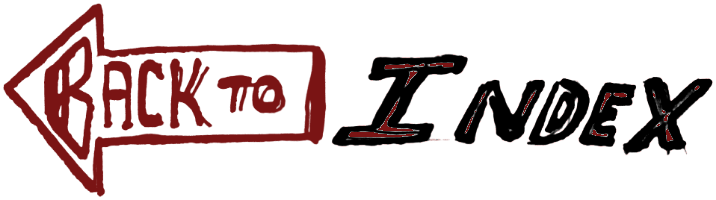
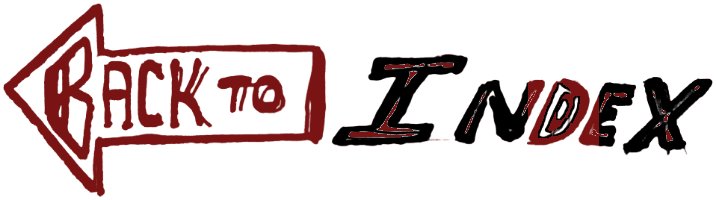
Nav: color the D red, outline its hole in black instead
The D now keeps the dark red ink color (like the rest of the
original word) while its counter stays empty, delimited by a thin
black line traced right at the hole's edge. I/N/E/X are unchanged
(black stroke, small red accent pockets).

Changed region(s): [[0.7374, 0.39, 0.8603, 0.75]]

diff --git a/codex.html b/codex.html
@@ -30,7 +30,7 @@
   <img src="codex-figure.jpg" alt="Drawing: a framed figure with arms crossed and a head made of ornate clustered shapes" class="codex-figure">
 </div>
 <nav class="menu" aria-label="Main menu">
-  <a href="index.html"><img src="index-word.png?v=7" alt="Index"></a>
+  <a href="index.html"><img src="index-word.png?v=8" alt="Index"></a>
   <a href="audio.html"><img src="titre-audio.png?v=2" alt="Audio"></a>
   <a href="video.html"><img src="titre-video.png?v=2" alt="Video"></a>
   <a href="argumentum.html"><img src="titre-argumentum.png?v=2" alt="Argumentum"></a>

diff --git a/agenda.html b/agenda.html
@@ -23,7 +23,7 @@
     <img src="agenda-vanguard.jpg" alt="Notebook page: Village Vanguard (2028)" class="agenda-art">  </div>
 </div>
 <nav class="menu" aria-label="Main menu">
-  <a href="index.html"><img src="index-word.png?v=7" alt="Index"></a>
+  <a href="index.html"><img src="index-word.png?v=8" alt="Index"></a>
   <a href="audio.html"><img src="titre-audio.png?v=2" alt="Audio"></a>
   <a href="video.html"><img src="titre-video.png?v=2" alt="Video"></a>
   <a href="codex.html"><img src="titre-codex.png?v=2" alt="Codex"></a>

diff --git a/audio.html b/audio.html
@@ -27,7 +27,7 @@
   </div>
 </div>
 <nav class="menu" aria-label="Main menu">
-  <a href="index.html"><img src="index-word.png?v=7" alt="Index"></a>
+  <a href="index.html"><img src="index-word.png?v=8" alt="Index"></a>
   <a href="video.html"><img src="titre-video.png?v=2" alt="Video"></a>
   <a href="codex.html"><img src="titre-codex.png?v=2" alt="Codex"></a>
   <a href="argumentum.html"><img src="titre-argumentum.png?v=2" alt="Argumentum"></a>

diff --git a/video.html b/video.html
@@ -31,7 +31,7 @@
   </div>
 </div>
 <nav class="menu" aria-label="Main menu">
-  <a href="index.html"><img src="index-word.png?v=7" alt="Index"></a>
+  <a href="index.html"><img src="index-word.png?v=8" alt="Index"></a>
   <a href="audio.html"><img src="titre-audio.png?v=2" alt="Audio"></a>
   <a href="codex.html"><img src="titre-codex.png?v=2" alt="Codex"></a>
   <a href="argumentum.html"><img src="titre-argumentum.png?v=2" alt="Argumentum"></a>

diff --git a/comodoro.html b/comodoro.html
@@ -27,7 +27,7 @@
   </div>
 </div>
 <nav class="menu" aria-label="Main menu">
-  <a href="index.html"><img src="index-word.png?v=7" alt="Index"></a>
+  <a href="index.html"><img src="index-word.png?v=8" alt="Index"></a>
   <a href="audio.html"><img src="titre-audio.png?v=2" alt="Audio"></a>
   <a href="video.html"><img src="titre-video.png?v=2" alt="Video"></a>
   <a href="codex.html"><img src="titre-codex.png?v=2" alt="Codex"></a>

diff --git a/contact.html b/contact.html
@@ -27,7 +27,7 @@
   </div>
 </div>
 <nav class="menu" aria-label="Main menu">
-  <a href="index.html"><img src="index-word.png?v=7" alt="Index"></a>
+  <a href="index.html"><img src="index-word.png?v=8" alt="Index"></a>
   <a href="audio.html"><img src="titre-audio.png?v=2" alt="Audio"></a>
   <a href="video.html"><img src="titre-video.png?v=2" alt="Video"></a>
   <a href="codex.html"><img src="titre-codex.png?v=2" alt="Codex"></a>

diff --git a/argumentum.html b/argumentum.html
@@ -83,7 +83,7 @@
 
 </main>
 <nav class="menu" aria-label="Main menu">
-  <a href="index.html"><img src="index-word.png?v=7" alt="Index"></a>
+  <a href="index.html"><img src="index-word.png?v=8" alt="Index"></a>
   <a href="audio.html"><img src="titre-audio.png?v=2" alt="Audio"></a>
   <a href="video.html"><img src="titre-video.png?v=2" alt="Video"></a>
   <a href="codex.html"><img src="titre-codex.png?v=2" alt="Codex"></a>
